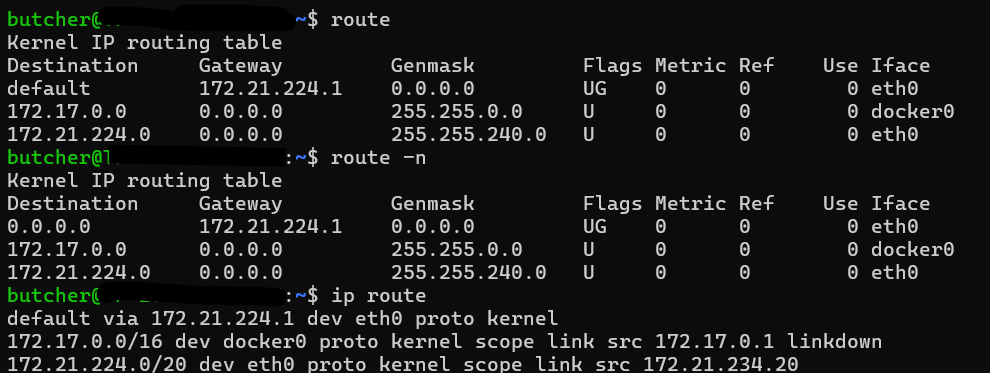
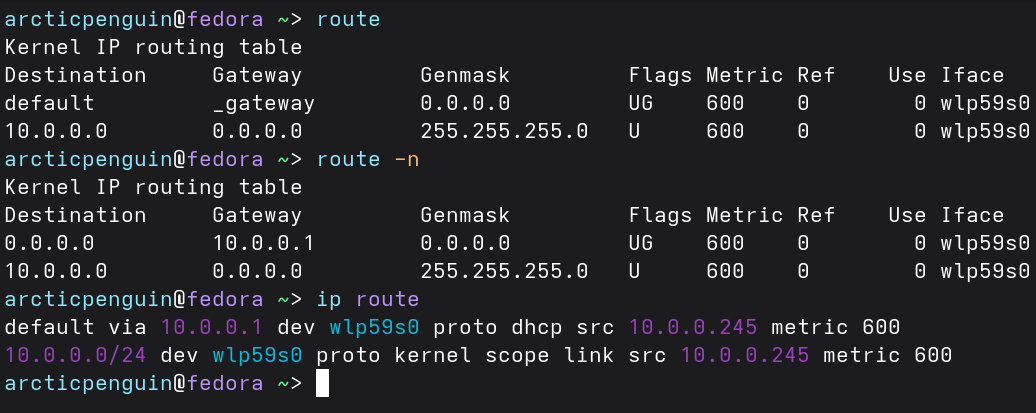
New topic Let-me-c added

diff --git a/Linux/Linux-Understanding-Network-Configuration.md b/Linux/Linux-Understanding-Network-Configuration.md
@@ -53,8 +53,8 @@ $ ip route # Modern Linux Commnd
 
 Example:
 
-* Destination: 192.168.1.50 → matches the /24 route → send directly via enp0s3.
-* Destination: 8.8.8.8 (Google DNS) → doesn’t match the /24 → falls back to the default route → send to 192.168.1.1
+* Destination: 10.0.0.50 → matches the /24 route → send directly via wlp59s0.
+* Destination: 8.8.8.8 (Google DNS) → doesn’t match the /24 → falls back to the default route → send to 10.0.0.1
 
 
 ***Flags***
@@ -163,6 +163,228 @@ More about network manager [here](https://satishkarki.com/posts/Network-Manager-
 
 ## The Transport Layer: TCP, UDP, and Services
 
+Let's look at port first. They are like apartment numbers in a building. The building is your computer (IP address), and each apartment is a different service waiting for visitors.
+
+```bash
+┌─────────────────────────────────────────────────────────────┐
+│  PORT RANGES                                                │
+│                                                             │
+│  0 - 1023      ← Well-Known Ports (need root to use)        │
+│                   SSH:22, HTTP:80, HTTPS:443, DNS:53        │
+│                                                             │
+│  1024 - 49151  ← Registered Ports                           │
+│                   MySQL:3306, PostgreSQL:5432, Redis:6379   │
+│                                                             │
+│  49152 - 65535 ← Ephemeral/Dynamic Ports                    │
+│                   Assigned automatically to clients         │
+└─────────────────────────────────────────────────────────────┘
+```
+Now lets look at an overview of the TCP connection:
+
+```bash
+CLIENT                              SERVER
+  │                                   │
+  │──── SYN ─────────────────────────►│  "Hey, can you hear me?"
+  │                                   │
+  │◄─── SYN-ACK ──────────────────────│  "Yes! Can you hear ME?"
+  │                                   │
+  │──── ACK ─────────────────────────►│  "Yes! Let's talk."
+  │                                   │
+  │════════ DATA FLOWS ═══════════════│
+  │                                   │
+  │──── FIN ─────────────────────────►│  "I'm done talking."
+  │◄─── FIN-ACK ──────────────────────│  "OK, goodbye."
+```
 
 
+ Now that we looked at port and TCP, here is how a unique connection works:
+ ```bash
+ Source IP : Source Port  →  Destination IP : Destination Port
 
+Example:
+192.168.1.5:54321  →  93.184.216.119:80
+
+This is ONE unique connection.
+ ```
+This is why our computer can have thousands of simultaneous connections to the same website — each connection gets a different source port (ephemeral port).
+
+```bash
+Your Computer (192.168.1.5)
+├── :54321 → google.com:80    (Tab 1)
+├── :54322 → google.com:80    (Tab 2)
+├── :54323 → google.com:80    (Tab 3)
+└── :54324 → google.com:443   (Tab 4 - HTTPS)
+```
+***Examples and Commands***
+1. Viewing Active Connections with netstat
+    ```bash
+    # Show all TCP connections
+    netstat -nt
+
+    # Show all listening ports
+    netstat -ntl
+
+    # Show both TCP and UDP
+    netstat -ntul
+
+    # Show with process names (need sudo for other users' processes)
+    sudo netstat -ntulp
+    ```
+2. The modern replacement: ss (Socket Statistics)
+
+    `ss` is faster and more powerful than `netstat`
+    ```bash
+    # Show all TCP connections
+    ss -t
+
+    # Show listening ports only
+    ss -tl
+
+    # Show with process info
+    sudo ss -tlp
+
+    # Show all states with more detail
+    ss -tan
+
+    # Show UDP
+    ss -ul
+
+    # Filter by port
+    ss -t '( dport = :80 or sport = :80 )'
+
+    # Filter by state
+    ss -t state established
+    ss -t state time-wait
+    ss -t state listening
+    ```
+    ![netstat vs ss](assets/Network-Config/netstat-ss.png)
+
+
+## Understanding DHCP
+
+```bash
+CLIENT                                    DHCP SERVER
+  │                                            │
+  │                                            │
+  │  ①DISCOVER                                │
+  │  "Is anyone out there?                     │
+  │   I need an IP address!"                   │
+  │  (broadcast to 255.255.255.255)            │
+  │─────────────────────────────────────────►  │
+  │                                            │
+  │                          ②OFFER           │
+  │                     "I'm here!             │
+  │                      How about             │
+  │                      192.168.1.45?"        │
+  │◄─────────────────────────────────────────  │
+  │                                            │
+  │  ③REQUEST                                 │
+  │  "Yes please! I'd like                     │
+  │   192.168.1.45"                            │
+  │  (still broadcast - others may have        │
+  │   offered too)                             │
+  │─────────────────────────────────────────►  │
+  │                                            │
+  │                          ④ACKNOWLEDGE     │
+  │                     "It's yours!           │
+  │                      Lease: 24 hours"      │
+  │◄─────────────────────────────────────────  │
+  │                                            │
+  │  Device is now configured!                 │
+  ```
+  * DHCP uses UDP port 67 (server) and 68 (Client)- not TCP
+
+What DHCP sends you ? - The Full Package
+```bash
+DHCP Lease Contains:
+┌─────────────────────────────────────────────────────────┐
+│  REQUIRED                                               │
+│  ├── IP Address          (e.g., 192.168.1.45)           │
+│  ├── Subnet Mask         (e.g., 255.255.255.0)          │
+│  └── Lease Duration      (e.g., 86400 seconds)          │
+│                                                         │
+│  COMMON OPTIONAL                                        │
+│  ├── Default Gateway     (e.g., 192.168.1.1)            │
+│  ├── DNS Server(s)       (e.g., 8.8.8.8, 8.8.4.4)       │
+│  ├── Domain Name         (e.g., home.local)             │
+│  ├── NTP Server          (time server)                  │
+│  └── TFTP Server         (for network booting)          │
+│                                                         │
+│  ADVANCED (enterprise)                                  │
+│  ├── WINS Server         (Windows name resolution)      │
+│  ├── Static Routes       (extra routing info)           │
+│  └── Vendor Options      (custom data)                  │
+└─────────────────────────────────────────────────────────┘
+```
+
+Setting up a Simple DHCP server on Linux
+```bash
+# Install ISC DHCP server
+sudo apt install isc-dhcp-server      # Ubuntu/Debian
+sudo dnf install dhcp-server          # Fedora/RHEL
+```
+
+Basic configuration `/etc/dhcp/dhcpd.conf`
+```bash
+# Global settings
+default-lease-time 86400;        # 24 hours
+max-lease-time 172800;           # 48 hours max
+
+# The subnet this server manages
+subnet 192.168.1.0 netmask 255.255.255.0 {
+    
+    # IP range to hand out
+    range 192.168.1.100 192.168.1.200;
+    
+    # Options sent to clients
+    option routers 192.168.1.1;
+    option domain-name-servers 8.8.8.8, 8.8.4.4;
+    option domain-name "home.local";
+    option subnet-mask 255.255.255.0;
+    option broadcast-address 192.168.1.255;
+}
+
+# DHCP Reservation - always give printer same IP
+host myprinter {
+    hardware ethernet aa:bb:cc:dd:ee:ff;   # MAC address
+    fixed-address 192.168.1.50;             # Always this IP
+}
+```
+```bash
+# Start the server
+sudo systemctl start isc-dhcp-server
+sudo systemctl enable isc-dhcp-server
+
+# Check it's running
+sudo systemctl status isc-dhcp-server
+```
+## Configuring Linux as a Router
+Three things need to be true to enable Linux as router:
+1. At least two interface
+2. IP forwarding enabled
+3. Routing table has correct entries
+
+```bash
+# PACKET JOURNEY THROUGH A LINUX ROUTER:
+
+Step 1: Packet arrives on eth0
+        Source:      192.168.1.45  (your laptop)
+        Destination: 8.8.8.8       (Google DNS)
+              │
+              ▼
+Step 2: Kernel checks: "Is 8.8.8.8 meant for ME?"
+        → No, my addresses are 192.168.1.1 and 203.0.113.1
+              │
+              ▼
+Step 3: ip_forward = 0?  → DROP packet (default behavior)
+        ip_forward = 1?  → FORWARD packet (router behavior)
+              │
+              ▼
+Step 4: Kernel consults routing table
+        "Where do I send packets for 8.8.8.8?"
+        → Default route: send via eth1
+              │
+              ▼
+Step 5: Packet goes out eth1
+        Toward the internet!
+```

diff --git a/C programming/Let-me-C.md b/C programming/Let-me-C.md
@@ -1,0 +1,8 @@
+# Let me C
+
+I am reading the book The C Programming Language, 2nd Edition by K&R. As I was going through the preface of the book, I liked this sentence and want to quote it: 'C wears well as one's experience with it grows.' I had experience with C during my Uni days while I was pursuing my electrical engineering degree. I didn't realize its importance at that point, but I am now realizing the depth of its presence. I am starting fresh from zero - let's C how far I can C.
+
+
+
+
+